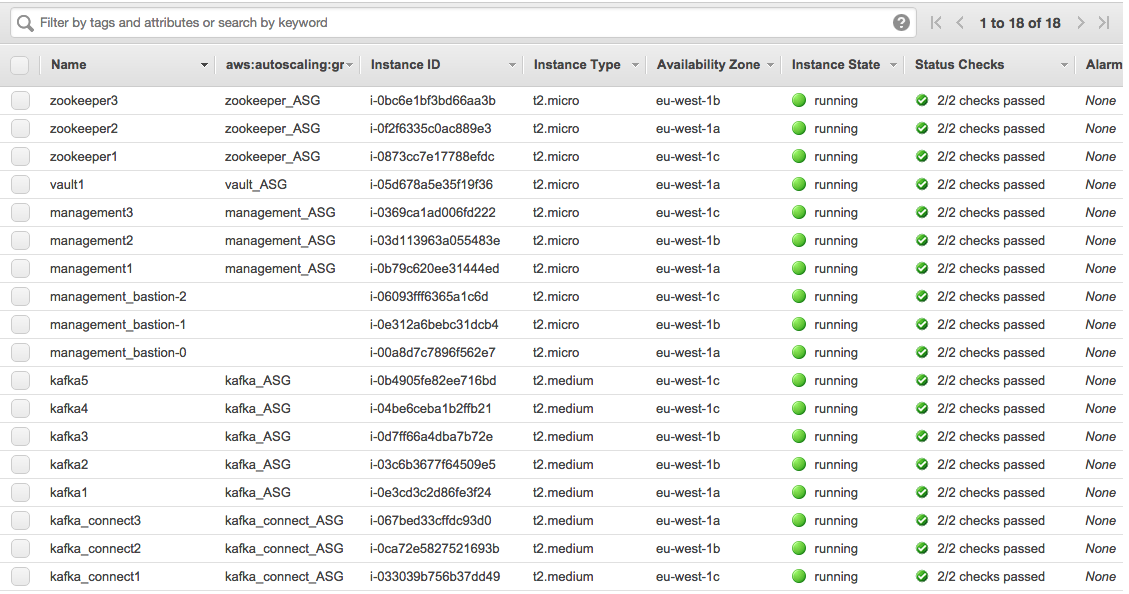
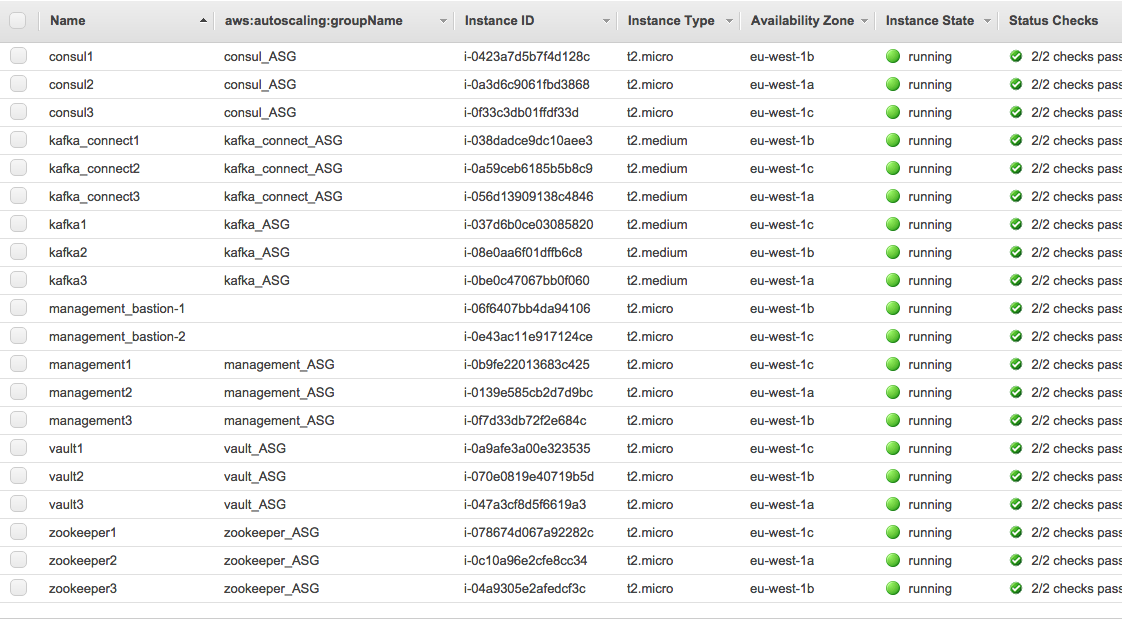
refactored Vault to be a server cluster

diff --git a/README.md b/README.md
@@ -22,7 +22,9 @@ via the ASG's. You can vary the size of the ASG's:
 
 &nbsp;&nbsp; -The Kafka Connect ASG has 3
 
-&nbsp;&nbsp; -The Vault ASG has 1
+&nbsp;&nbsp; -The consul ASG has 3
+
+&nbsp;&nbsp; -The Vault ASG has 3
 
 &nbsp;&nbsp; -The Management ASG has 3
 
@@ -40,6 +42,9 @@ show you how to do this.
 installed via docker images: 
     - Kafka Manager (port 9000 - https://github.com/yahoo/kafka-manager)
     - Zoonavigator (port 8001 - https://github.com/elkozmon/zoonavigator)
+    
+- The Consul ASG has an ELB in front of it for ASG health checking and allows the Vault cluster 
+instances to utilise the Consul cluster as the consul client agents don't work.
 
 
 
@@ -124,11 +129,10 @@ installed via docker images:
 ![](aws-instances.png)
 
 ### to-Do's
-- create Vault and consul clusters
 - Vault requires harcoded AWS keys in run-vault, this needs fixing
+- Consul requires harcoded AWS keys in run-consul, this needs fixing
 - create an initalisation script to update the user, role, and key info
 - define a network ACL to restric traffic between VPC's
-- add LB's for better ASG health checking
 
 ### License
 Copyright [2017] [Paul Pogonoski]
